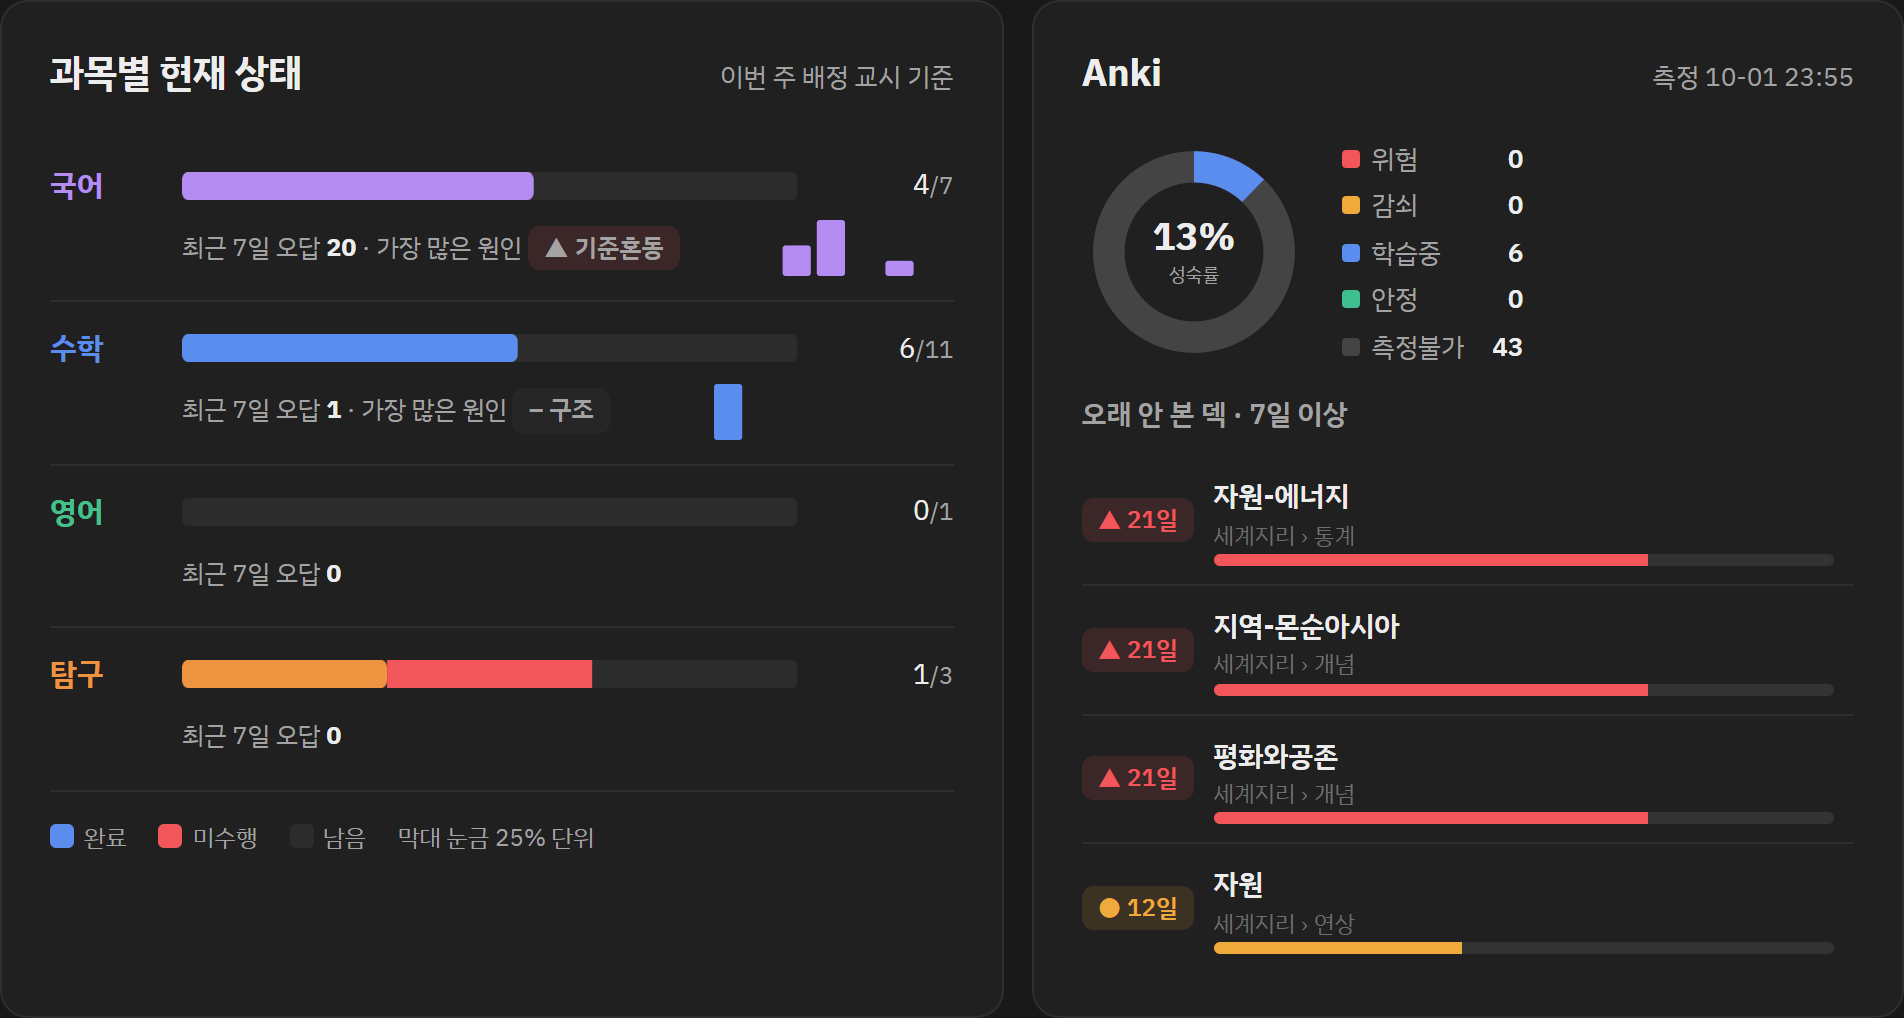
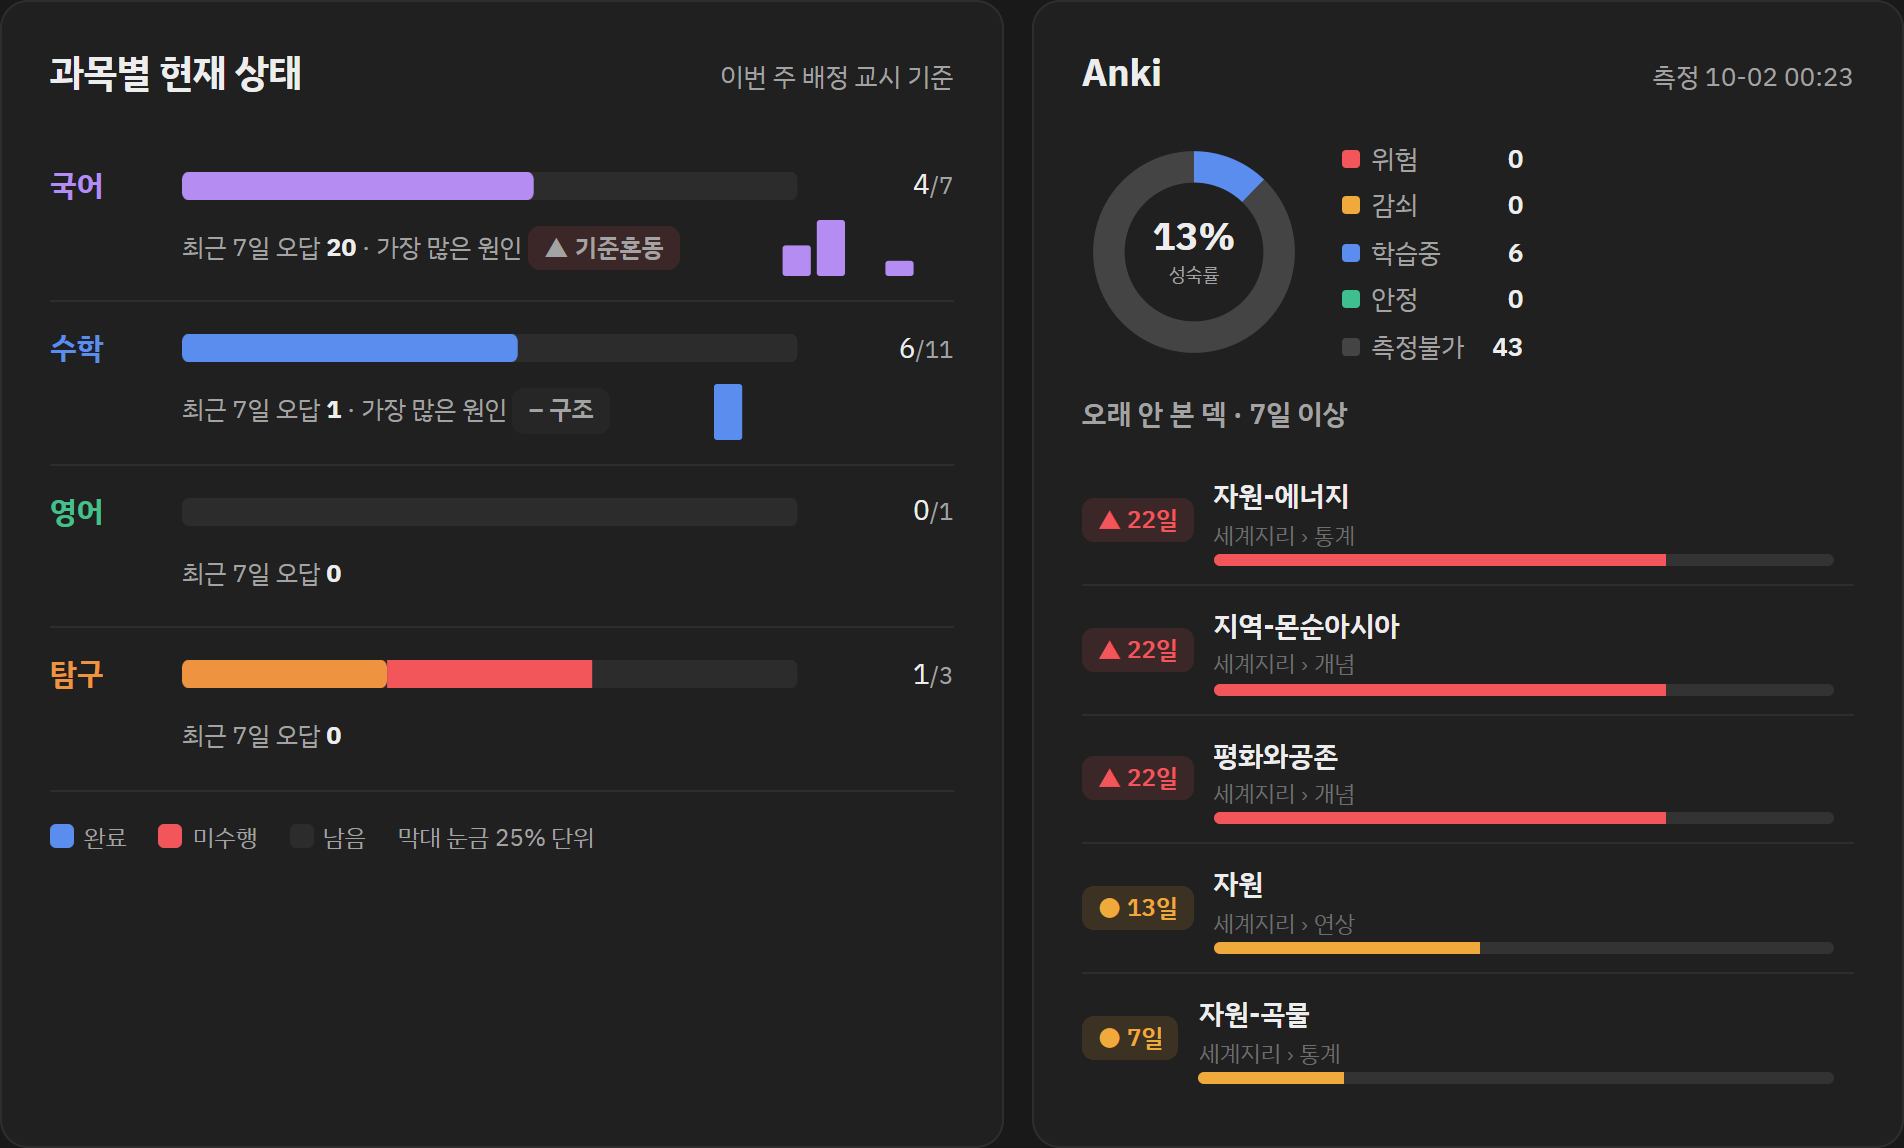
dashboard: D-48 · 완료 0 · 적체 21·저장함 196·주 0/12 · 미코딩 113 (지표 변화 없음)

diff --git a/docs/home.html b/docs/home.html
@@ -93,12 +93,12 @@ white-space:nowrap;overflow:hidden;text-overflow:ellipsis}
 .wr .ev{flex:1 1 150px;min-height:0;padding:6px 9px;flex-direction:row;align-items:baseline;justify-content:space-between;gap:8px}
 .none{flex:1;padding:6px 0}}
 </style></head><body><div class="wrap">
-<div class="alert-strip crit">⚠ 장애 1 — 테스트 경보 — g7-03 표시 확인용(곧 해제)</div><p class="foot"><a href="index.html" target="_blank" rel="noopener" style="color:inherit">⑨ 방법론 학습 상태 &rarr;</a></p>
+<div class="alert-strip crit">⚠ 장애 1 · 경고 1 — 테스트 경보 — g7-03 표시 확인용(곧 해제)</div><p class="foot"><a href="index.html" target="_blank" rel="noopener" style="color:inherit">⑨ 방법론 학습 상태 &rarr;</a></p>
 <section class="card"><div class="ch"><h2>주간 목표 · 9/28 – 10/3</h2><span class="num">완료 2/11</span></div><div class="goals"><div class="gr gh"><span></span><span>월</span><span>화</span><span>수</span><span>목</span><span>금</span><span>토</span><span></span></div><div class="gr" style="--c:#0a84ff"><p><b>4공법 Anki 25 + 백지 인출 25 + …</b><small>수학</small></p><i class="d done"></i><i class="d done"></i><i class="d done"></i><i class="d unk"></i><i class="d plan"></i><i class="d "></i><span class="num">3/5</span></div><div class="gr" style="--c:#0a84ff"><p><b>코어테마 미적분</b><small>수학</small></p><i class="d done"></i><i class="d done"></i><i class="d done"></i><i class="d unk"></i><i class="d plan"></i><i class="d "></i><span class="num">3/5</span></div><div class="gr" style="--c:#af52de"><p><b>국어 몰아하기 — 문학 도약 잔여 11강(수필…</b><small>국어</small></p><i class="d done"></i><i class="d done"></i><i class="d "></i><i class="d unk"></i><i class="d plan"></i><i class="d "></i><span class="num">2/4</span></div><div class="gr" style="--c:#af52de"><p><b>국어 몰아하기 — 이어서</b><small>국어</small></p><i class="d done"></i><i class="d "></i><i class="d "></i><i class="d unk"></i><i class="d "></i><i class="d "></i><span class="num">1/2</span></div><div class="gr" style="--c:#8e8e93"><p><b>예제</b><small>공통</small></p><i class="d done"></i><i class="d done"></i><i class="d "></i><i class="d unk"></i><i class="d "></i><i class="d "></i><span class="num">2/3</span></div><div class="gr" style="--c:#ff9500"><p><b>사회문화 루틴 — 나르샤 테마 + 방법론</b><small>사문</small></p><i class="d "></i><i class="d "></i><i class="d miss"></i><i class="d "></i><i class="d "></i><i class="d "></i><span class="num">0/1</span></div><div class="gr" style="--c:#30b158"><p><b>영어 루틴 — 김동하 강의</b><small>영어</small></p><i class="d "></i><i class="d "></i><i class="d "></i><i class="d "></i><i class="d plan"></i><i class="d "></i><span class="num">0/1</span></div><div class="gr" style="--c:#0a84ff"><p><b>약점 보완 ① 정재일 실모 채점·오답 분석</b><small>수학</small></p><i class="d "></i><i class="d "></i><i class="d "></i><i class="d "></i><i class="d "></i><i class="d plan"></i><span class="num">0/1</span></div><div class="gr" style="--c:#ff9500"><p><b>약점 보완 ② 사회문화 방법론</b><small>사문</small></p><i class="d "></i><i class="d "></i><i class="d "></i><i class="d "></i><i class="d "></i><i class="d plan"></i><span class="num">0/1</span></div><div class="gr fin" style="--c:#af52de"><p><b>✓ 판단 훈련 — 시험 전 한 장 시트 읽고 고전…</b><small>국어</small></p><i class="d "></i><i class="d done"></i><i class="d "></i><i class="d "></i><i class="d "></i><i class="d "></i><span class="num">1/1</span></div><div class="gr fin" style="--c:#ff9500"><p><b>✓ 세계지리 — 전수검사 105장 → 기출분석 강…</b><small>탐구</small></p><i class="d "></i><i class="d "></i><i class="d done"></i><i class="d "></i><i class="d "></i><i class="d "></i><span class="num">1/1</span></div></div></section>
 <section class="card"><h2>과목별 현재 상태</h2><div class="subj"><div class="sj" style="--c:#af52de"><b>국어</b><div class="sb"><i class="ok" style="width:57%"></i><i class="ms" style="width:0%"></i></div><span class="num">4/7</span><small>오답 7일 20 · 최다 「기준혼동」</small></div><div class="sj" style="--c:#0a84ff"><b>수학</b><div class="sb"><i class="ok" style="width:55%"></i><i class="ms" style="width:0%"></i></div><span class="num">6/11</span><small>오답 7일 1 · 최다 「구조」</small></div><div class="sj" style="--c:#30b158"><b>영어</b><div class="sb"><i class="ok" style="width:0%"></i><i class="ms" style="width:0%"></i></div><span class="num">0/1</span><small>오답 7일 0</small></div><div class="sj" style="--c:#ff9500"><b>탐구</b><div class="sb"><i class="ok" style="width:33%"></i><i class="ms" style="width:33%"></i></div><span class="num">1/3</span><small>오답 7일 0</small></div></div><p class="key"><i class="k ok"></i>완료 <i class="k ms"></i>미수행 <i class="k"></i>남음 · 이번 주 배정 교시 기준</p></section>
-<section class="card"><h2>Anki</h2><div class="pace"><div class="tile"><b class="num">155</b><span>오늘 복습 · ≈45분</span></div><div class="tile"><b class="num">13%</b><span>성숙률 (21일+)</span></div><div class="tile"><b class="num">49</b><span>덱</span></div></div><p class="key">학습중 6 · 측정불가 43</p><div class="stale"><strong>⚠ 7일 넘게 안 본 덱 4개</strong><ul><li><b>자원-에너지</b><small>세계지리::통계</small><span class="num">21일</span></li><li><b>지역-몬순아시아</b><small>세계지리::개념</small><span class="num">21일</span></li><li><b>평화와공존</b><small>세계지리::개념</small><span class="num">21일</span></li><li><b>자원</b><small>세계지리::연상</small><span class="num">12일</span></li></ul></div><p class="key">측정 10-01 23:55</p></section>
+<section class="card"><h2>Anki</h2><div class="pace"><div class="tile"><b class="num">155</b><span>오늘 복습 · ≈45분</span></div><div class="tile"><b class="num">13%</b><span>성숙률 (21일+)</span></div><div class="tile"><b class="num">49</b><span>덱</span></div></div><p class="key">학습중 6 · 측정불가 43</p><div class="stale"><strong>⚠ 7일 넘게 안 본 덱 5개</strong><ul><li><b>자원-에너지</b><small>세계지리::통계</small><span class="num">22일</span></li><li><b>지역-몬순아시아</b><small>세계지리::개념</small><span class="num">22일</span></li><li><b>평화와공존</b><small>세계지리::개념</small><span class="num">22일</span></li><li><b>자원</b><small>세계지리::연상</small><span class="num">13일</span></li><li><b>자원-곡물</b><small>세계지리::통계</small><span class="num">7일</span></li></ul></div><p class="key">측정 10-02 00:23</p></section>
 <section class="card"><div class="hero"><b class="num">D-48</b>
 <div class="sub"><strong>목표 레이스</strong>9/5 출발 · 75일 중 27일째</div></div>
 <svg viewBox="0 0 600 96" role="img" aria-label="수능까지 구간 레이스 — 오늘 위치"><rect x="14" y="50" width="558" height="10" rx="5" fill="var(--track)"/><rect x="14.0" y="50" width="117.0" height="10" rx="5" fill="var(--done)"/><circle cx="73.5" cy="80" r="9" fill="var(--tile)"/><text x="73.5" y="84" font-size="11" font-weight="700" text-anchor="middle" fill="var(--ink2)">1</text><rect x="133.0" y="50" width="102.2" height="10" rx="5" fill="var(--acc2)"/><rect x="133.0" y="50" width="81.8" height="10" rx="5" fill="var(--acc)"/><circle cx="185.1" cy="80" r="9" fill="var(--acc)"/><text x="185.1" y="84" font-size="11" font-weight="700" text-anchor="middle" fill="#fff">2</text><circle cx="293.0" cy="80" r="9" fill="var(--tile)"/><text x="293.0" y="84" font-size="11" font-weight="700" text-anchor="middle" fill="var(--ink2)">3</text><circle cx="374.8" cy="80" r="9" fill="var(--tile)"/><text x="374.8" y="84" font-size="11" font-weight="700" text-anchor="middle" fill="var(--ink2)">4</text><circle cx="415.8" cy="80" r="9" fill="var(--tile)"/><text x="415.8" y="84" font-size="11" font-weight="700" text-anchor="middle" fill="var(--ink2)">5</text><circle cx="501.3" cy="80" r="9" fill="var(--tile)"/><text x="501.3" y="84" font-size="11" font-weight="700" text-anchor="middle" fill="var(--ink2)">6</text><rect x="574" y="32" width="4" height="4" fill="var(--ink)"/><rect x="582" y="32" width="4" height="4" fill="var(--ink)"/><rect x="578" y="36" width="4" height="4" fill="var(--ink)"/><line x1="574" y1="32" x2="574" y2="60" stroke="var(--ink)" stroke-width="1.5"/><text x="586" y="26" font-size="12" font-weight="700" text-anchor="end" fill="var(--ink)">수능 11/19</text><rect x="192.9" y="6" width="44" height="22" rx="11" fill="var(--acc)"/><text x="214.9" y="21" font-size="12" font-weight="700" text-anchor="middle" fill="#fff">오늘</text><line x1="214.9" y1="28" x2="214.9" y2="50" stroke="var(--acc)" stroke-width="2"/><circle cx="214.9" cy="55" r="8" fill="var(--acc)" stroke="var(--card)" stroke-width="3"/></svg><ol class="legend"><li><i>1</i>기본기 마무리<small class="num">9/5</small></li><li class=on><i>2</i>공략법 착수<small class="num">9/21</small></li><li><i>3</i>연습<small class="num">10/5</small></li><li><i>4</i>국어 3축 완료<small class="num">10/20</small></li><li><i>5</i>0교시 개시<small class="num">10/27</small></li><li><i>6</i>실전만<small class="num">10/31</small></li></ol><div class="lap"><strong>2구간 · 공략법 착수</strong><span class="num">9/21 – 10/4 · 12/14일 · 2일 남음</span></div><div class="bar"><i style="width:86%"></i></div><div class="crit"><div class="row"><p>외운 방법론을 실제 문항에 적용하는 훈련</p><div class="tag">기록으로 재지 않는 목표</div></div><div class="row"><p>수학 &#x27;시간&#x27; 코드 주 3건 이하</p><div class="meter"><span class="v" style="color:var(--good)">이번 주 0건 / 한도 3</span><div class="t"></div><div class="lim" style="left:50.0%"></div><div class="dot" style="left:0.0%;background:var(--good)"></div></div></div></div></section>
-<p class="foot num">자동 갱신 10-02 00:23</p>
+<p class="foot num">자동 갱신 10-02 00:25</p>
 </div></body></html>

diff --git a/docs/index.html b/docs/index.html
@@ -128,11 +128,11 @@ details.mod>*:last-child{padding-bottom:14px}
  .bar-l{flex:0 0 58px}.sk-l{flex:0 0 74px}}
 </style>
 </head><body><div class="wrap">
-<!--alerts--><section class="mod alerts crit"><h2><span class="no">⓪</span>⚠ 경보</h2><ul><li style="--c:#ff5c5c">장애 · 테스트 경보 — g7-03 표시 확인용(곧 해제) · 무시하세요 · AI가 바로 해제 · 처음 00:21 · 1회</li></ul></section><!--/alerts--><section class="mod hud">
+<!--alerts--><section class="mod alerts crit"><h2><span class="no">⓪</span>⚠ 경보</h2><ul><li style="--c:#ff5c5c">장애 · 테스트 경보 — g7-03 표시 확인용(곧 해제) · 무시하세요 · AI가 바로 해제 · 처음 00:21 · 1회</li><li style="--c:#ff9f43">경고 · Dash Board 존 갱신 실패 (SystemExit) · 다음 check 에서 자동 재시도 · 처음 00:23 · 1회</li></ul></section><!--/alerts--><section class="mod hud">
   <div class="hud-top">
     <div><div class="dday">D-48</div><div class="dday-s">수능 2026-11-19</div></div>
     <div class="hud-meta">
-      <div>2026-10-02T00:22:46</div>
+      <div>2026-10-02T00:24:24</div>
       <div class="mono">규격 리뉴얼 v1 rev.n · 시간표 v1 rev.e · 2026-09-30</div>
     </div>
   </div>
@@ -393,5 +393,5 @@ details.mod>*:last-child{padding-bottom:14px}
   style="background:#bb9af7"></span>수학
   <span class="chip">28</span></span>
   <span class="sk-n"><span class="nd un" title="01 문제 해결의 절차 · 숙련도 미판정"></span><span class="nd lv0" title="24강 일반론 인식하기 【게이트】 · 숙련도 0 미접촉"></span><span class="nd lv0" title="17강 Apply — 수열의 극한·무한급수 · 숙련도 0 미접촉"></span><span class="nd un" title="02 식에 대하여 · 숙련도 미판정"></span><span class="nd lv0" title="21강 Apply — 변곡점과 이계도함수 · 숙련도 0 미접촉"></span><span class="nd lv0" title="19강 Apply — 미분법과 연결성 · 숙련도 0 미접촉"></span><span class="nd un" title="05 함수합성 · 숙련도 미판정"></span><span class="nd un" title="14 모양일치와 값만 구하기 · 숙련도 미판정"></span><span class="nd lv0" title="26강 Apply 51~62번 · 숙련도 0 미접촉"></span><span class="nd un" title="10 부등식 · 숙련도 미판정"></span><span class="nd un" title="15 식 생성과 식 정리 · 숙련도 미판정"></span><span class="nd un" title="04 그래프 기본기 · 숙련도 미판정"></span><span class="nd un" title="13 목적 — 항등식·자정 · 숙련도 미판정"></span><span class="nd lv0" title="18강 Apply — 덧셈정리·함수의 극한 · 숙련도 0 미접촉"></span><span class="nd lv0" title="20강 Apply — 극대극소 · 숙련도 0 미접촉"></span><span class="nd un" title="09 함수 · 숙련도 미판정"></span><span class="nd un" title="08 항등식 · 숙련도 미판정"></span><span class="nd un" title="12 목적 (1) · 숙련도 미판정"></span><span class="nd un" title="07 방정식 · 숙련도 미판정"></span><span class="nd lv0" title="25강 Apply 43~50번 · 숙련도 0 미접촉"></span><span class="nd un" title="06 새로운 함수 · 숙련도 미판정"></span><span class="nd un" title="03 식 생성 · 숙련도 미판정"></span><span class="nd un" title="11 수열과 자연수·정수 · 숙련도 미판정"></span><span class="nd lv0" title="22강 Apply — 적분과 거리 · 숙련도 0 미접촉"></span><span class="nd un" title="16 연속과 미분 가능 · 숙련도 미판정"></span><span class="nd lv0" title="23강 Apply — 정적분 · 숙련도 0 미접촉"></span><span class="nd lv0" title="27강 Apply 63~75번 · 숙련도 0 미접촉"></span><span class="nd lv" style="opacity:0.56" title="삼각함수 활용 (도형) · 숙련도 1 개념만"></span></span></div></details><details class="mod"><summary><span class="no">⑧</span>실모 · Anki<span class="sum">실모 0회</span></summary><div class="kv"><span>이번 주 실모</span><b>0회</b></div><div class="kv"><span>Anki due · 17.5초/장</span><b><b>155</b>장 <span class="tail">≈ 45분</span></b></div></details>
-<footer class="note"><a href="trend.html">추세 &rarr;</a> &middot; Exam OS 스테이터스 · 2026-10-02T00:22:46 생성 · 규격 리뉴얼 v1 rev.n · 시간표 v1 rev.e · 2026-09-30 · 값은 전부 Notion 실측이며 추정치는 없습니다. ④ 약점은 ERRORLOG 4종, ⑤ 예제 지표는 3종(watch·accounting과 동일 분모) 기준입니다. ⑨는 설계 §2 표 이후 추가된 모듈이라 번호는 뒤지만 자리는 폴드 위입니다(09-06).</footer>
+<footer class="note"><a href="trend.html">추세 &rarr;</a> &middot; Exam OS 스테이터스 · 2026-10-02T00:24:24 생성 · 규격 리뉴얼 v1 rev.n · 시간표 v1 rev.e · 2026-09-30 · 값은 전부 Notion 실측이며 추정치는 없습니다. ④ 약점은 ERRORLOG 4종, ⑤ 예제 지표는 3종(watch·accounting과 동일 분모) 기준입니다. ⑨는 설계 §2 표 이후 추가된 모듈이라 번호는 뒤지만 자리는 폴드 위입니다(09-06).</footer>
 </div></body></html>
